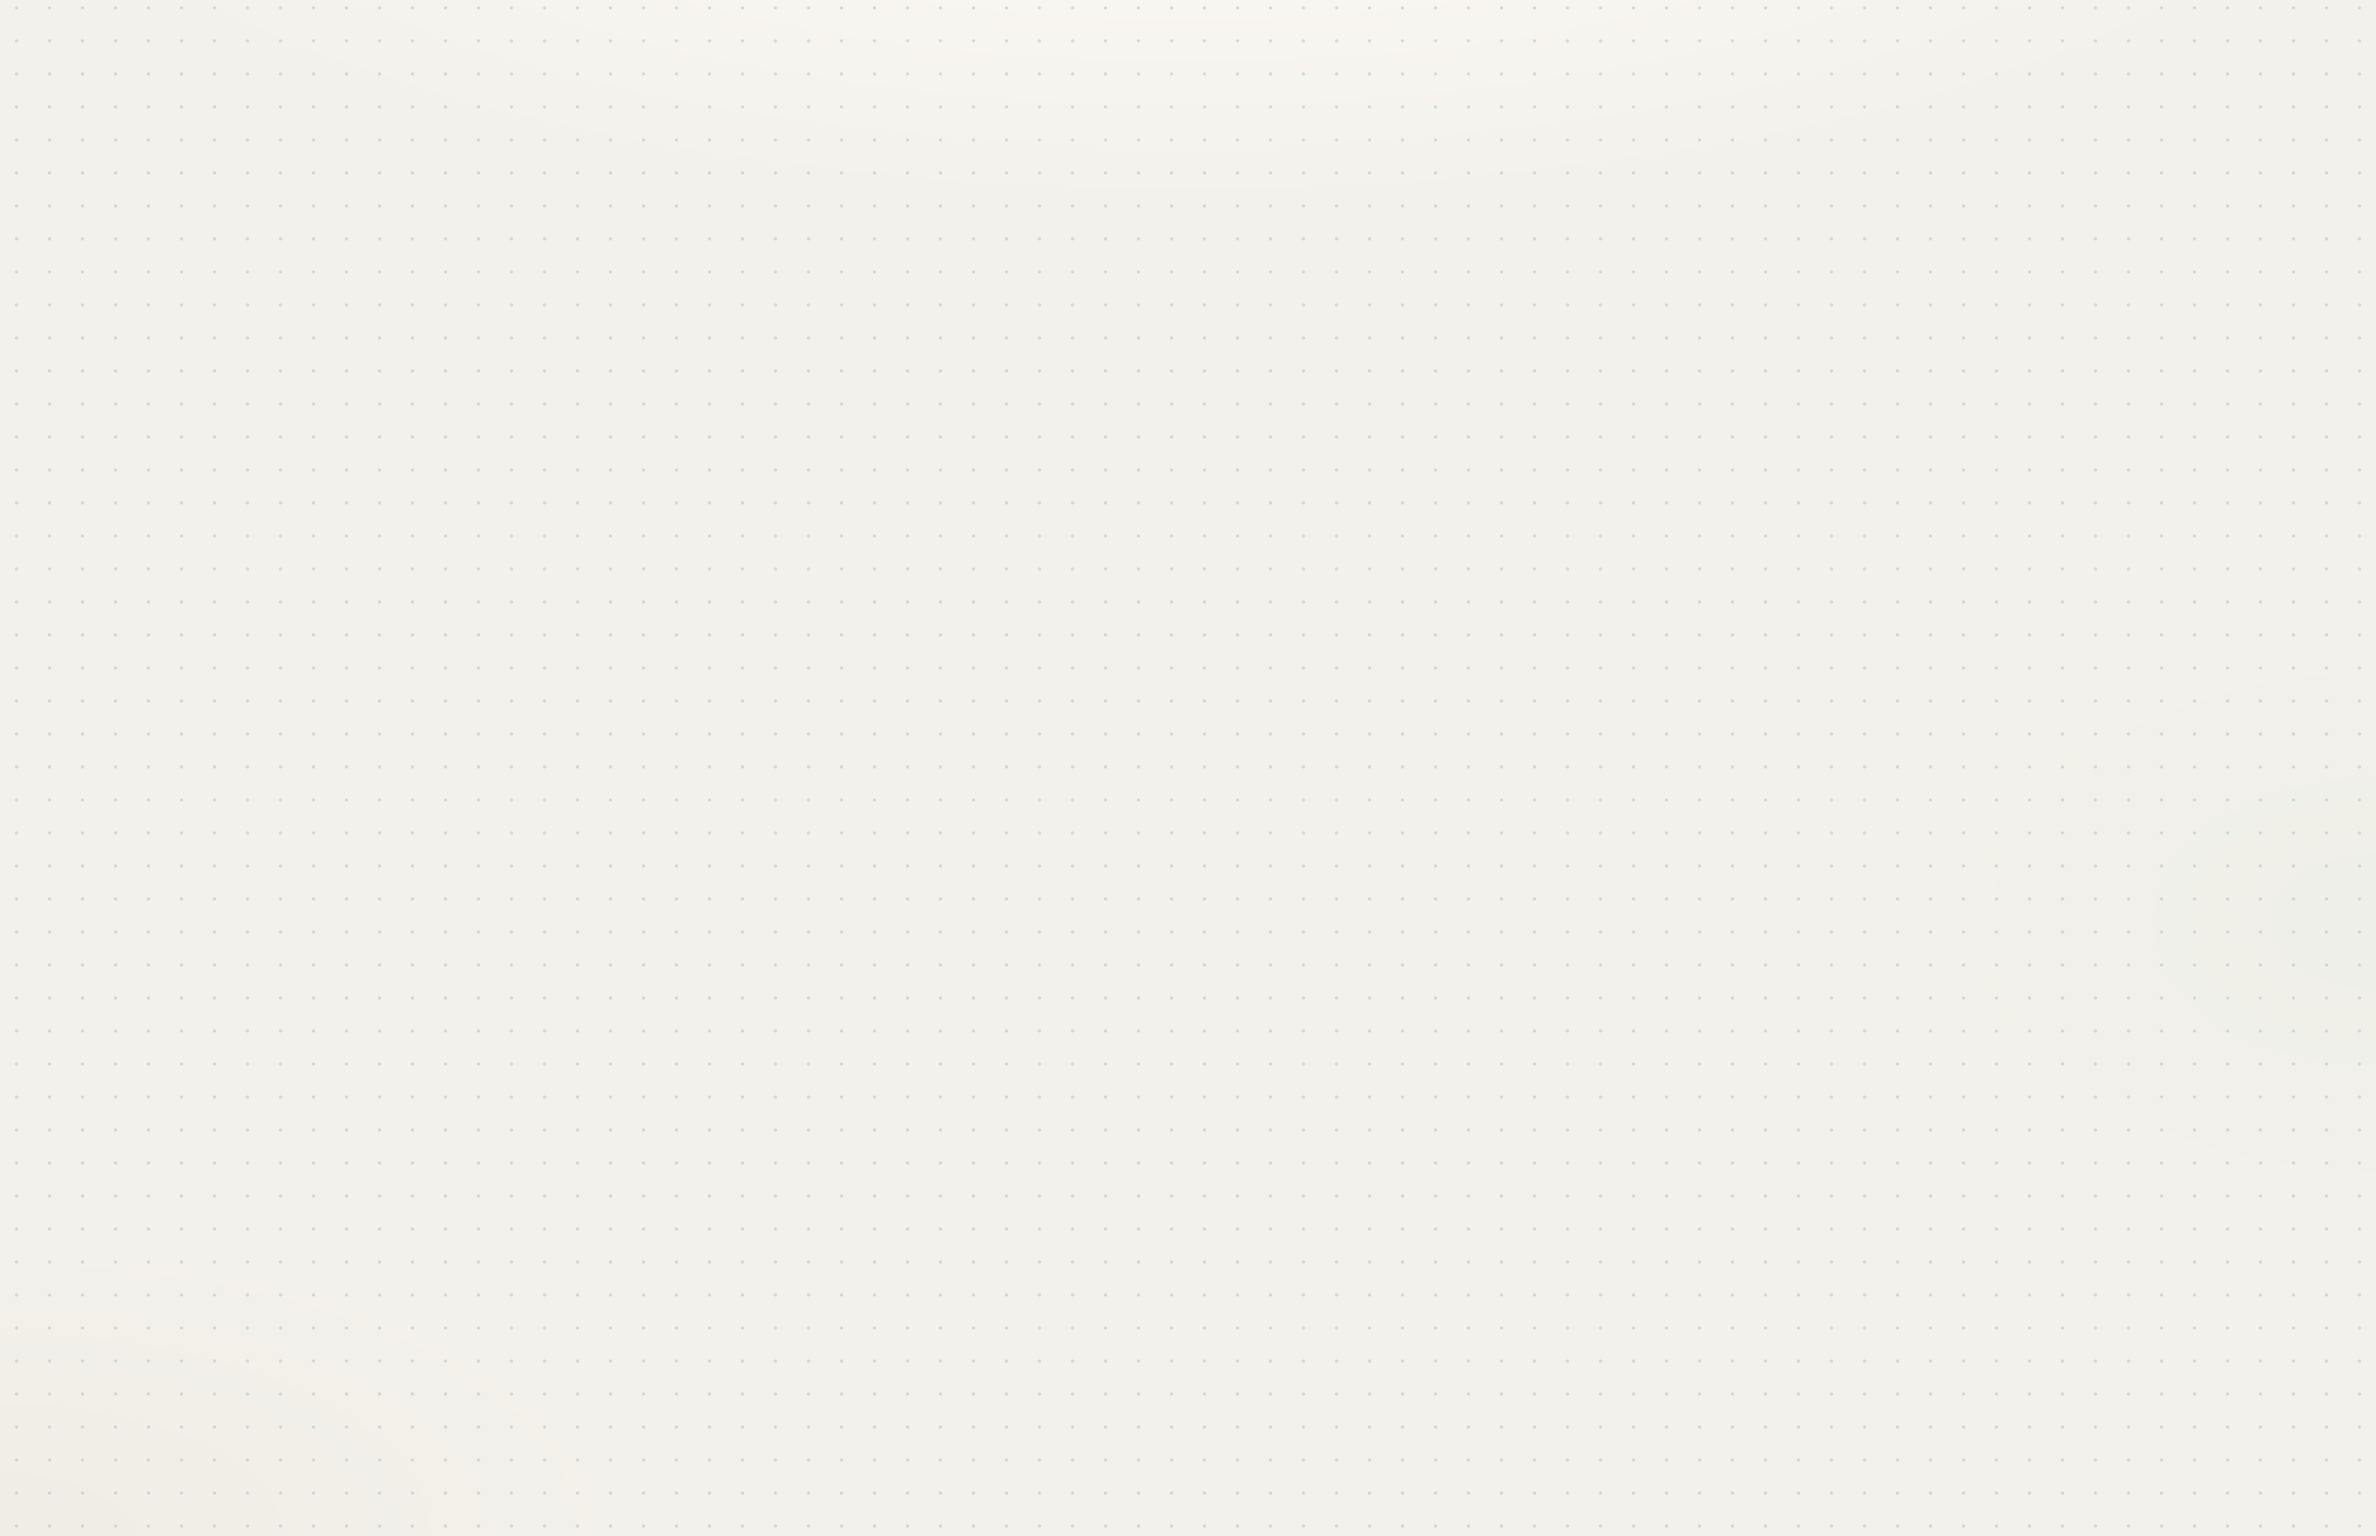
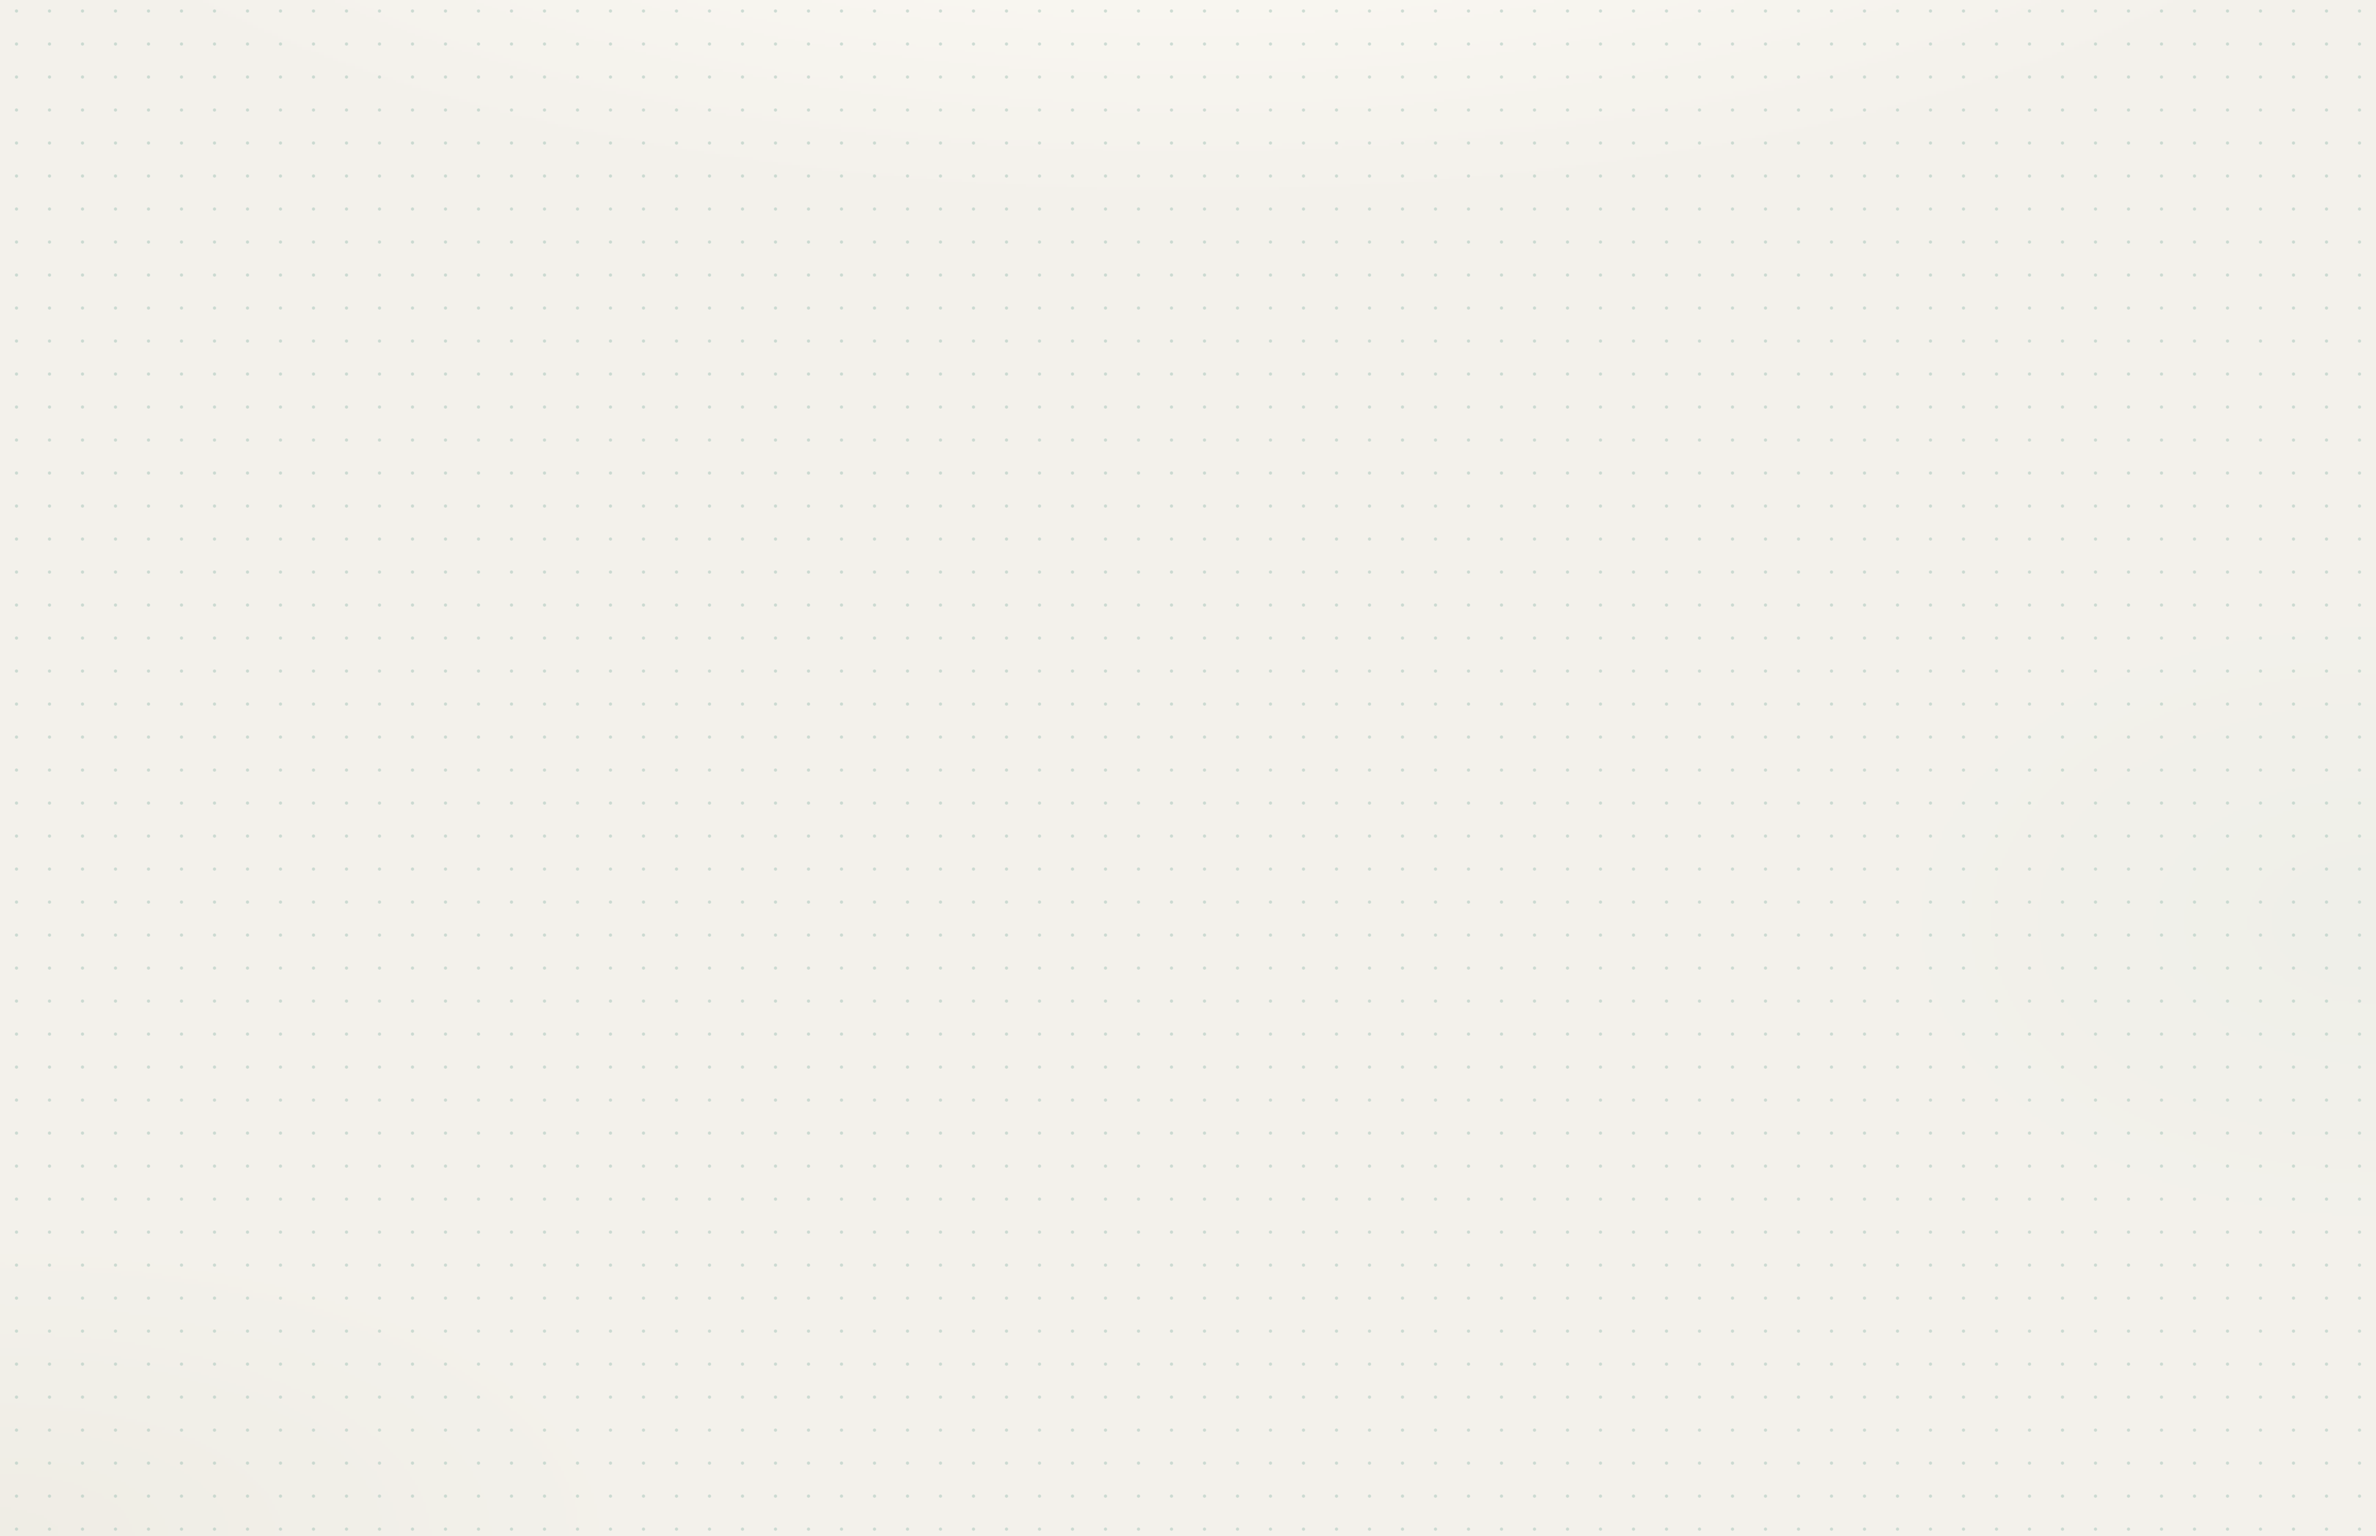
Recalibrate dot phase: +4.5px (chrome anchor drifted across restart)
Backgrounds identical, config identical, windows titled — yet baselines
measured 4.5px below the dot rows after today's quit/reopen cycles.
Ghostty's background anchor is not stable across restarts. Rebaked
cy 11.5 -> 16.0 (@2x); @1x predicted 13.0, verify on the LG.

diff --git a/tools/bake-backgrounds.py b/tools/bake-backgrounds.py
@@ -56,9 +56,15 @@ MODES = {
 # Per-scale defaults: tile size, dot solid/fade radii, calibrated dot center.
 # cy values were measured from screenshots on the original displays (16"
 # MacBook Pro retina @2x; LG ultrawide @1x) — see README for the procedure.
+# NOTE: the phase is coupled to Ghostty's window-chrome anchor, which has
+# been observed to SHIFT across app restarts (11.5 was correct in the
+# morning; +4.5px drift after quit/reopen the same day). If the grid looks
+# off after a Ghostty restart, re-measure and rebake — or see the repo
+# README for the cursor-anchored shader idea that would remove this
+# dependency entirely.
 SCALES = {
-    "2x": {"tile": 48, "r_in": 2.0, "r_out": 2.7, "cx": 24.0, "cy": 11.5},
-    "1x": {"tile": 24, "r_in": 1.0, "r_out": 1.35, "cx": 12.0, "cy": 10.75},
+    "2x": {"tile": 48, "r_in": 2.0, "r_out": 2.7, "cx": 24.0, "cy": 16.0},
+    "1x": {"tile": 24, "r_in": 1.0, "r_out": 1.35, "cx": 12.0, "cy": 13.0},
 }
 
 
